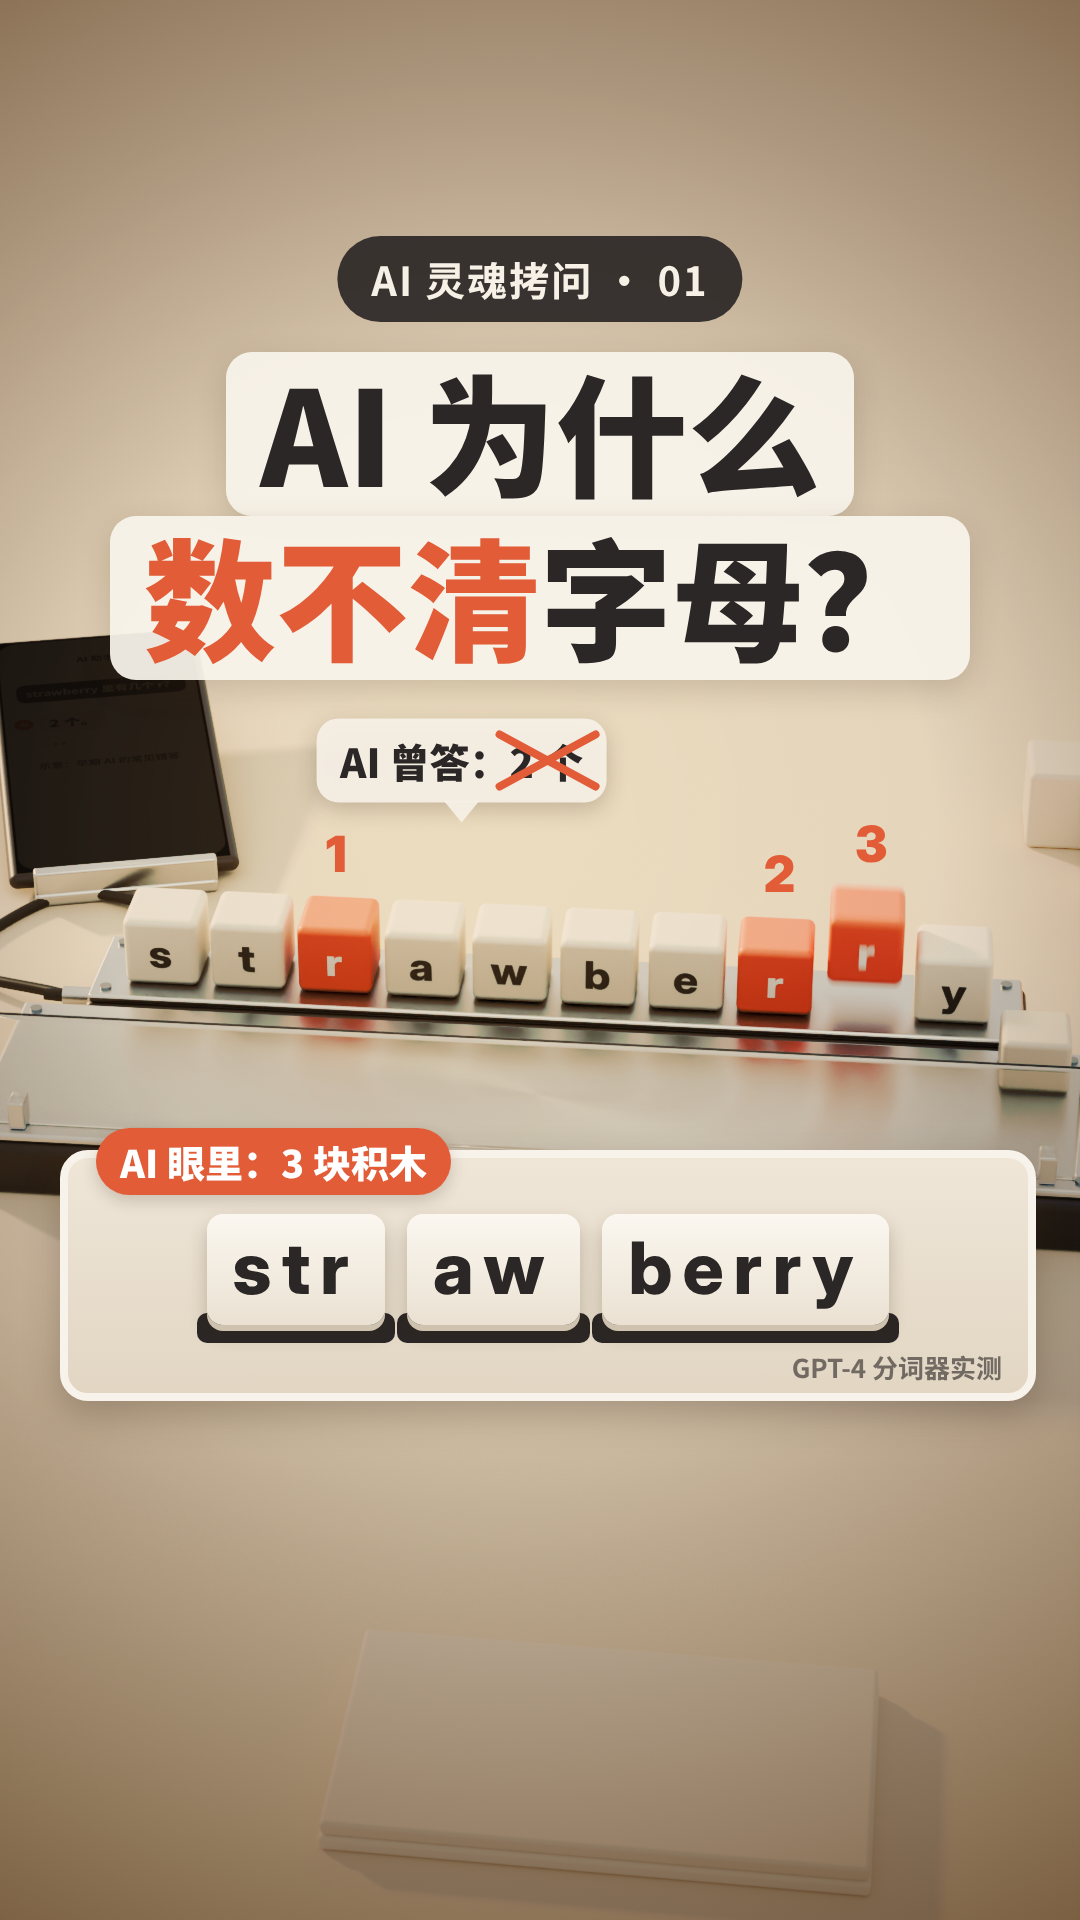
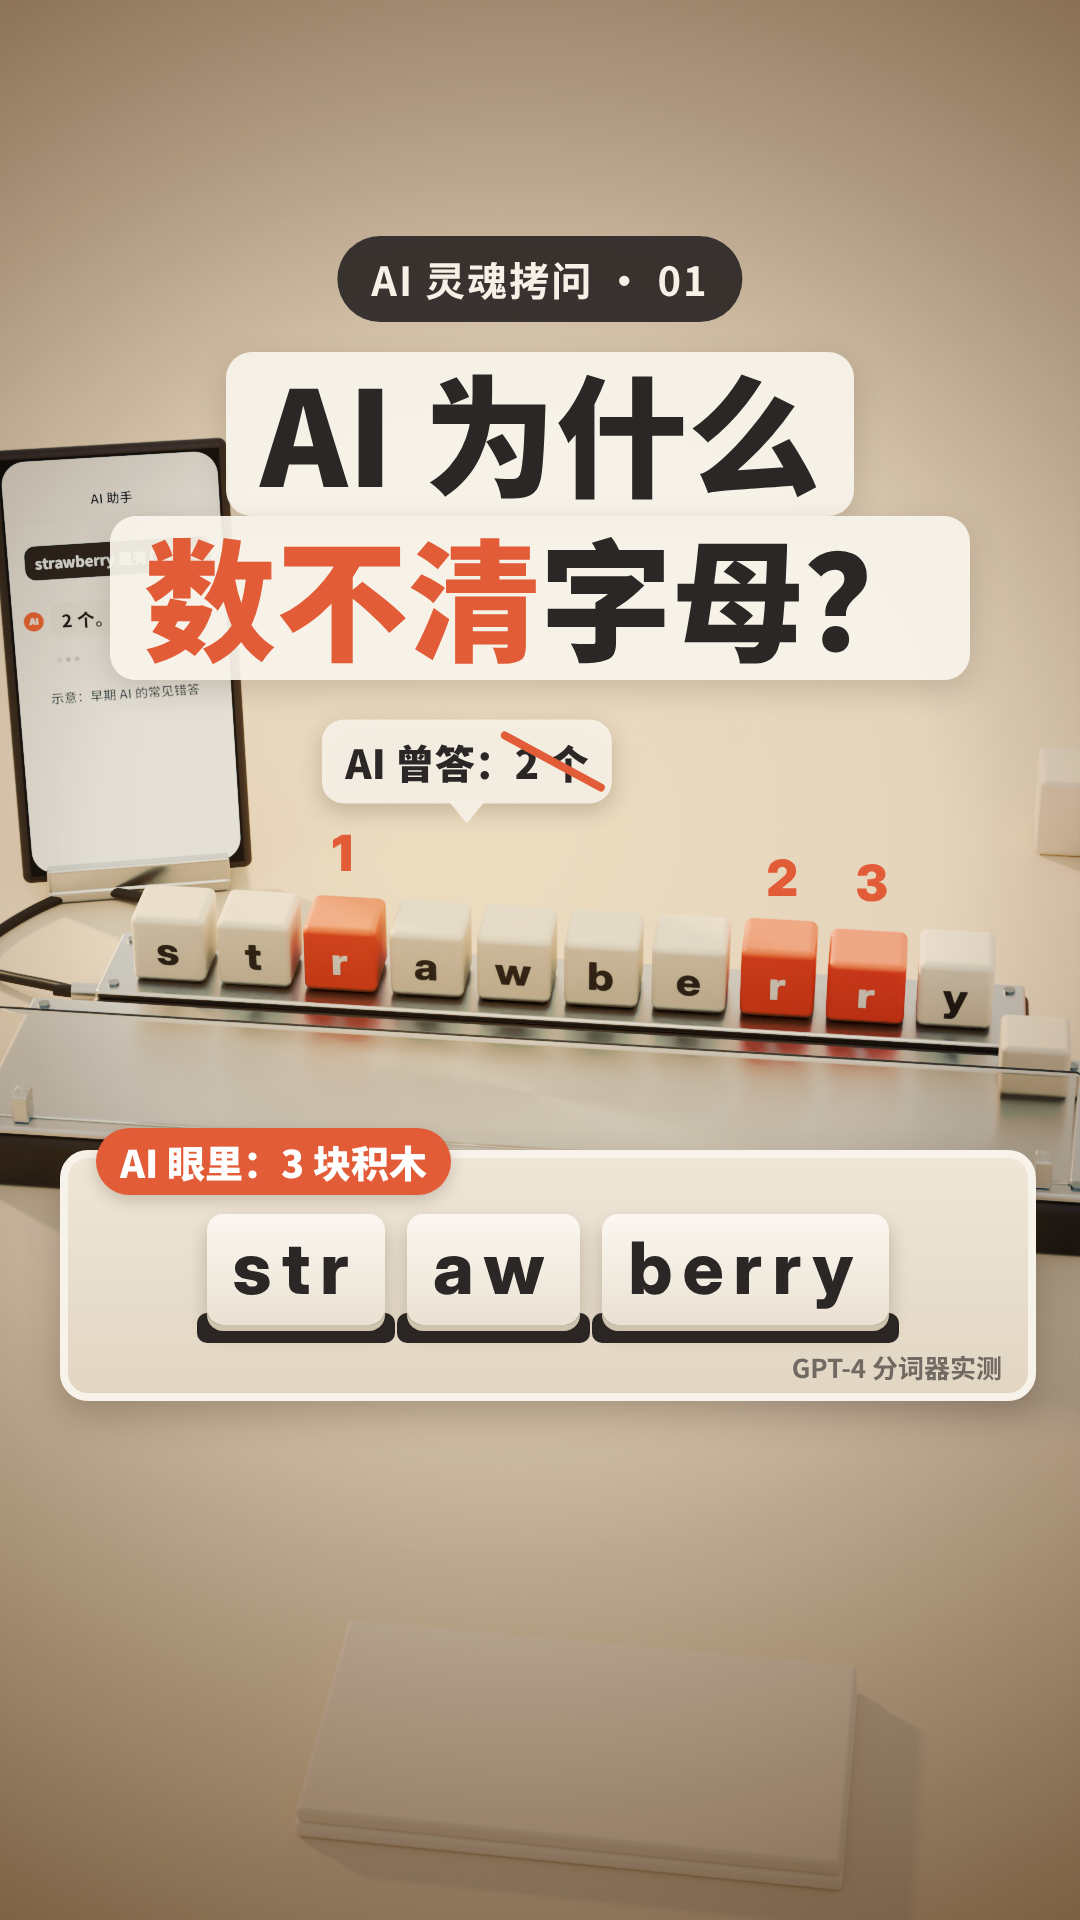
EP.01 v6 审核修改：配乐剪点后端 +45 ms、publish.md 音乐电平写法、封面主图改开场 0.45 秒
Claude-Session: https://claude.ai/code/session_01WiaSR2oHUjSk8c5HhMok97

diff --git a/episodes/ai-linghun/01-strawberry/music/prep.py b/episodes/ai-linghun/01-strawberry/music/prep.py
@@ -5,7 +5,7 @@
   3. 分段增益：讲解段让给字幕（-2 dB），揭晓段抬起（+1.5 dB），下期预告收回（-1.5 dB），片尾卡淡出到片尾（v6：92.0 秒）；
   4. 整体响度到 -14 LUFS：增益 + 限幅器（样本峰值 -1.6 dBFS，真峰值约 -1 dBTP），之后加音效再统一量一次。
 用法：python3 prep.py <输入.wav> <输出前缀> [--dur 92.0]   → <前缀>.wav + <前缀>.mp3
-v6（用户 11-23 删掉 S7 后两句、片尾提前）：对齐后在小节线上剪掉 81.6–86.4 秒（两小节，和画面提前的 4.8 秒一样），
+v6（用户 11-23 删掉 S7 后两句、片尾提前）：对齐后在小节线上剪掉 81.6–86.445 秒（两小节，和画面提前的 4.8 秒一样；后端多 45 ms，因为 A1 实际约 99 BPM、拍子到这里已漂了约 50 ms），
 接口 60 ms 等功率交叉淡化；剪点按色度 / 音色相似度在 77.4–82.2 秒的拍点里挑（81.6 在小节线上、得分第二）。v5 及以前：不剪，dur 99.29，分段见注释。
 """
 import subprocess, sys
@@ -16,7 +16,7 @@ BEAT = 0.6
 # v5: [(0.0, 9.6, 0.0), (9.6, 76.5, -2.0), (76.8, 86.4, 1.5), (86.4, 96.0, -1.5), (96.0, 120.0, -1.5)], no cut, dur 99.29
 SECTIONS = [(0.0, 9.6, 0.0), (9.6, 76.5, -2.0), (76.8, 82.2, 1.5), (82.2, 88.8, -1.5), (88.8, 120.0, -1.5)]   # times after the cut; 88.8 = end card
 PAUSE = (76.5, 76.8)
-CUT = (81.6, 86.4)   # aligned-music seconds removed (v6); None for no cut
+CUT = (81.6, 86.445)   # aligned-music seconds removed (v6); None for no cut. The end is 45 ms past the 100-BPM grid: A1 really runs at ~99 BPM, so by 86.4 the beat has drifted (审核 11-23: with 86.4 the first beat after the join came ~50 ms late); 0.045 = best onset-envelope match of the bars on both sides
 
 
 def loud(y, sr, target, pre):

diff --git a/DECISIONS.md b/DECISIONS.md
@@ -121,7 +121,7 @@
 - 2026-11-22：**EP.01 音乐压低、字幕改深色底**（暂停前记下的两条未完成反馈，用户回来后再提：「音乐有点大，盖住音效了，需要调整。另外，大字幕和小字幕的背景颜色要做区分，目前都是一样的，看着容易搞混」）。① 声音：本会话容器里还有对齐好的 A1 配乐 wav，按原流程重混：`music/sfx.py --music-db -6`（音效相对音乐抬约 6 dB；「嘟嘟」降到 0.12），整体仍 -14 LUFS → `music/out/mix_v4.wav`；没用 `fx_boost.py` 的叠加法。② 画面：底部字幕改成深色底（rgba(34,30,28,.88)）、浅色字、关键词亮珊瑚 #FF8A63；画面里的小标注保持米白。对比过「字幕米白、标注深色」（B），B 的标注比字幕更跳、字幕又融进桌面，所以选 A（`index.html` 的 `cs`，默认 A）。整片在 RunPod 重渲。
 - 2026-11-22：**EP.01 关键镜头用 Blender、其余 three.js（混合流程，以后每集可用）**。用户问「可不可以关键部分交给blender，其他就保持three」，随后：「就从这集开始，就按照你选的段落用blender渲，加进现有镜头，其他保持three；加上声音调整好后，到时候直接把完整版和封面图片，发布md都发给我」。段落：0–8 秒（手机、三个 r）、13.8–16.6 秒（切积木）、70–76 秒（GPU）、81.9–84.4 秒（结尾三个 r），共 579 帧。做法：`render.mjs --export-seg` 导出每段所有物体逐帧位置 / 显隐 / 颜色（GPU 小工人拆实例；手机屏幕逐帧图片，存时上下翻转），`blender/hyb_jobs.py` 生成任务、`tools/runpod_render_gql.py` 多台并行渲（Cycles 128 采样、OptiX），`index.html ?bg=hyb` 套同一套调色、标注和字幕，`tools/hybrid.sh` 覆盖进 three.js 整片并在每个接口做 12 帧（0.4 秒）交叉淡化（硬切时 239→240 能看出托盘明暗一跳）。Blender 里玻璃粗糙度 0.3 → 0.08（太糊会挡住后面的字母）。费用：7 台卡 + 试渲约 $1.5（余额 8.01 → 6.30，含 v4 three.js 整片 $0.09）。封面主图也换成 Blender 版 6.8 秒。
 - 2026-11-22：**EP.01 混合版审核后的四处修改**（审核「不通过」的项）。① Blender 里三个 r 的字母原来没变白：字母贴图的颜色接在 Mix（正片叠底）的 B 口上，不在 Principled 的 Base Color 上；`build.py` 的 `own_color()` 改为找到这个口再打关键帧，170–239、2457–2531 两段补渲（单台 4090 约 11 分钟，约 $0.21）。② 标注颜色：深色底只留给字幕。原来画面里有几处标注自己写了深色底（接龙高手、听过≠看过、AI 的视角（示意）、Token），在 `cs=A` 下一律改成米白，审核和观众都把它们看成了字幕。③ Blender 段比 three.js 段暗、也偏灰（AgX 出图：暗部抬高、中高调压低；接口处平均亮度差 10–15 级）。新增 `tools/hyb_tone.py`：在接口附近的帧上逐通道按分位数配对，拟合一条单调曲线套到 Blender 原始帧（原始帧备份在 `blender/out/hyb_orig`），两轮后平均差 0–3 级；曲线存 `film/blender/tone.json`。以后每集同样处理，或在 Blender 里改用 Standard 出图再看。④ 音效「切」的电平 0.42 → 0.36（音乐压低 6 dB 后切积木的声音显得冲，混 mix_v4 时改的，之前没记）。
-- 2026-11-23：**EP.01 v6：删两句、片尾提前、开场改成积木**。用户重看后：「1234同意，4里面的68-74秒这部分保留现有节奏不快进；另外我今天重新看下来，我同意昨天观众的看法，把很多时候我们觉得别人“连这都不会....”到“和你不同”这部分给删掉；然后到了1‘31’‘后，后边进度要快点，早点让观众看到下期要讲什么，也就是1分33秒出现下期聊之后，不要在那个问号的地方运镜太久，要不然我可能会直接划走，可以适当提岁的进入到最后的标识牌 AI灵魂拷问」。① 确认：第一句「AI 不按字母读。」；片尾卡集名改「#01 AI 不按字母读 ✓」；本系列动效门槛「最长静止 ≤ 1.2 秒」（要求清单 #22）。② 采纳观众：58 秒「每读一块，记一笔账（示意）」移到上半屏（原在字幕正上方，像第二行字幕）；23–25 秒只留「“ strawberry”（带空格）是 1 块 · 实测」一句并放大；开场先给三个 r 和划掉的「2 个」。68–74 秒（两千亿 / 几万亿）保持原节奏。③ 删第 28、29 句（「很多时候我们觉得别人“连这都不会”」「也许只是他看世界用的积木，和你不同」）：第 27 句后留 1.16 秒，S7 的圈逐个读字母改快（每个 0.22 秒），读完三个 r 一起亮再离开；后面整体提前 4.8 秒（两小节）。④ 「下期聊」出来约 1 秒就进片尾卡（88.8 秒，落在拍点），片尾卡上的字 0.9 秒内出齐；问号上的推镜从约 5.8 秒缩到约 3.6 秒。整片 99.3 → 92.0 秒。⑤ 开场三个备选（积木开场 / 手机大字 / 冷开场），用户选「方案一：积木开场」：第一帧就是封面那一幕，字母不再从手机飞出，镜头在「问它……两个」时滑到手机再回来。⑥ 配乐：`music/prep.py` 在对齐后的 81.6–86.4 秒剪掉两小节（剪点按色度 / 音色相似度在 77.4–82.2 秒的拍点里挑，81.6 在小节线上），60 ms 等功率交叉淡化；分段改为揭晓段 76.8–82.2、下期段 82.2–88.8；音效从画面重导（137 个）→ `music/out/mix_v6.wav`，-14 LUFS。⑦ Blender：0–8 秒段（开场改了）和结尾三个 r 段（新时间 79.7–82.3 秒）重导重渲，切积木和 GPU 两段时间没变、沿用；部分 pod 的驱动编译不了 OptiX 内核，失败的任务改用 CUDA 重渲（`jobs_retry.json`）。
+- 2026-11-23：**EP.01 v6：删两句、片尾提前、开场改成积木**。用户重看后：「1234同意，4里面的68-74秒这部分保留现有节奏不快进；另外我今天重新看下来，我同意昨天观众的看法，把很多时候我们觉得别人“连这都不会....”到“和你不同”这部分给删掉；然后到了1‘31’‘后，后边进度要快点，早点让观众看到下期要讲什么，也就是1分33秒出现下期聊之后，不要在那个问号的地方运镜太久，要不然我可能会直接划走，可以适当提岁的进入到最后的标识牌 AI灵魂拷问」。① 确认：第一句「AI 不按字母读。」；片尾卡集名改「#01 AI 不按字母读 ✓」；本系列动效门槛「最长静止 ≤ 1.2 秒」（要求清单 #22）。② 采纳观众：58 秒「每读一块，记一笔账（示意）」移到上半屏（原在字幕正上方，像第二行字幕）；23–25 秒只留「“ strawberry”（带空格）是 1 块 · 实测」一句并放大；开场先给三个 r 和划掉的「2 个」。68–74 秒（两千亿 / 几万亿）保持原节奏。③ 删第 28、29 句（「很多时候我们觉得别人“连这都不会”」「也许只是他看世界用的积木，和你不同」）：第 27 句后留 1.16 秒，S7 的圈逐个读字母改快（每个 0.22 秒），读完三个 r 一起亮再离开；后面整体提前 4.8 秒（两小节）。④ 「下期聊」出来约 1 秒就进片尾卡（88.8 秒，落在拍点），片尾卡上的字 0.9 秒内出齐；问号上的推镜从约 5.8 秒缩到约 3.6 秒。整片 99.3 → 92.0 秒。⑤ 开场三个备选（积木开场 / 手机大字 / 冷开场），用户选「方案一：积木开场」：开场 0.5 秒内就是封面那一幕（第一帧上三个 r 已是珊瑚色、正依次标号），字母不再从手机飞出，镜头在「问它……两个」时滑到手机再回来。⑥ 配乐：`music/prep.py` 在对齐后的 81.6–86.445 秒剪掉两小节（剪点按色度 / 音色相似度在 77.4–82.2 秒的拍点里挑，81.6 在小节线上；审核测出按 100 BPM 格子剪在 86.4 时接缝后第一拍晚约 50 ms——A1 实际约 99 BPM，拍子到这里已漂了——后端按两侧小节的起音包络对齐挪 45 ms，接缝两侧主拍间隔 0.304 秒），60 ms 等功率交叉淡化；分段改为揭晓段 76.8–82.2、下期段 82.2–88.8；音效从画面重导（137 个）→ `music/out/mix_v6.wav`，-14 LUFS。⑦ Blender：0–8 秒段（开场改了）和结尾三个 r 段（新时间 79.7–82.3 秒）重导重渲，切积木和 GPU 两段时间没变、沿用；部分 pod 的驱动编译不了 OptiX 内核，失败的任务改用 CUDA 重渲（`jobs_retry.json`）。⑧ 封面主图从 6.8 秒改为开场 0.45 秒（审核：v6 的 6.8 秒气泡已是完整的 ✗，缩小后看不出「2」；0.45 秒三个 r 已标好、「2 个」只划一道）。
 
 ## 2026-11-07 · 光互连 02 抖音拆解版第 1 条：纯动画对比版（v2）
 - 用户反馈：不靠旁白能看懂，但「跟谁比」一开始没讲清楚。改成上下两种送法从第一帧并排比：上「几十条路一起送」，下「排成一队送」；第一帧两部手机收到同一张照片，一张错位 ✗、一张完好 ✓。

diff --git a/episodes/ai-linghun/01-strawberry/publish.md b/episodes/ai-linghun/01-strawberry/publish.md
@@ -6,8 +6,8 @@
 
 ## 抖音
 
-- 视频：`ai01-strawberry.mp4`（1080×1920，92.0 秒，-14 LUFS；随消息发给你，mp4 不进仓库，源文件在 `film/out/`）。关键镜头（0–8 秒积木开场和手机、13.8–16.6 秒切积木、70–76 秒 GPU、79.7–82.3 秒结尾三个 r）用 Blender 渲，其余 three.js，接口处 0.4 秒交叉淡化；字幕深色底、标注米白；音乐比 v4 低 6 dB
-- 封面：`cover/cover-douyin.png`（1080×1920）：大字「AI 为什么 / 数不清字母？」；主图是片中 6.8 秒：strawberry 十个字母，三个 r 变红并标 1 2 3，旁边气泡「AI 曾答：2 个」，只有「2 个」被划掉；下方卡片「AI 眼里：3 块积木」：str / aw / berry 三块积木，角上小字「GPT-4 分词器实测」。
+- 视频：`ai01-strawberry.mp4`（1080×1920，92.0 秒，-14 LUFS；随消息发给你，mp4 不进仓库，源文件在 `film/out/`）。关键镜头（0–8 秒积木开场和手机、13.8–16.6 秒切积木、70–76 秒 GPU、79.7–82.3 秒结尾三个 r）用 Blender 渲，其余 three.js，接口处 0.4 秒交叉淡化；字幕深色底、标注米白；音乐比你说「盖住音效」的那版低 6 dB（同上一版）
+- 封面：`cover/cover-douyin.png`（1080×1920）：大字「AI 为什么 / 数不清字母？」；主图是片中开场 0.45 秒那一帧（Blender）：strawberry 十个字母，三个 r 珊瑚色并标 1 2 3，气泡「AI 曾答：2 个」，「2 个」只划了一道（划成完整的 ✗ 会挡住「2」），左边手机显示原题；下方卡片「AI 眼里：3 块积木」：str / aw / berry 三块积木，角上小字「GPT-4 分词器实测」。
 
 **描述**
 
@@ -75,7 +75,7 @@ AI为啥数不清r？讲透Token
 - 第一句「AI 不按字母读。」（片子字幕和抖音描述第一句）。
 - 片尾卡集名改为「#01 AI 不按字母读 ✓」。
 - 本系列动效门槛：最长静止 ≤ 1.2 秒（本片最长静止见交付说明）。
-- 开场用「方案一：积木开场」：第一帧就是封面那一幕（三个 r 标 1 2 3，「AI 曾答：2 个」被划掉）。
+- 开场用「方案一：积木开场」：开场 0.5 秒内就是封面那一幕（第一帧上三个 r 已是珊瑚色、正依次标 1 2 3，「2 个」在 0.3–0.6 秒被划掉）。
 - 删掉「很多时候我们觉得别人“连这都不会”」「也许只是他看世界用的积木，和你不同」两句；「下期聊」出来约 1 秒就进片尾卡。
 - 采纳观众意见：58 秒标注移到上半屏；23–25 秒只留「“ strawberry”（带空格）是 1 块」一句并放大。68–74 秒保持原节奏。
 

diff --git a/episodes/ai-linghun/01-strawberry/film/README.md b/episodes/ai-linghun/01-strawberry/film/README.md
@@ -80,4 +80,4 @@ RunPod：`python3 ../../../../tools/runpod_render_gql.py run blender/jobs_ab.jso
 - 开场方案一：`OPEN_R`（三个 r 在 -0.2 / -0.08 / 0.04 秒弹出）、`STRIKE0`（0.3 秒划掉「2 个」）；字母从第一帧就在托盘上（不再从手机飞出，`SCAN1` 取消）；镜头 0–1.6 秒封面构图慢推，3.0–4.5 秒手机，5.8 秒回托盘。
 - 配乐：`music/prep.py` 的 `CUT = (81.6, 86.4)`、新 `SECTIONS`、`--dur 92.0` → `music/out/A1_v6.wav`；`music/sfx.py out/A1_v6.wav out/mix_v6.wav --music-db -6`。
 - Blender：`blender/seg/00000_00240`（重导，带屏幕）和 `blender/seg/02391_02469`（结尾三个 r 的新时间）；旧的 A、D 段导出挪到 `blender/seg_v5/`。`python3 blender/hyb_jobs.py --only 00000_00240,02391_02469`。部分 pod 报 `OPTIX_ERROR_INTERNAL_COMPILER_ERROR`（驱动问题），失败任务用 `jobs_retry.json`（`KEPU_GPU=CUDA`）重渲。
-
+- 结果：成片 `out/ai01-strawberry.mp4`（= `ai01-strawberry-v6.mp4`）1080×1920、2760 帧、92.0 秒；-14.0 LUFS、真峰值 -1.4 dBFS；动效 `motion_check --end=88.8 --max-still=1.2 --max-win=0.45` PASS（静止 2%，最长 0.70 秒 @42 s）。全屏版 `../tools/xhs.sh`。审核第一轮不通过：配乐剪点后第一拍晚约 50 ms（`CUT` 后端改 86.445，重混后只换音轨）、publish.md 音乐电平写法；封面主图改 0.45 秒。观众见 `../观众反馈.md`「v6」。
